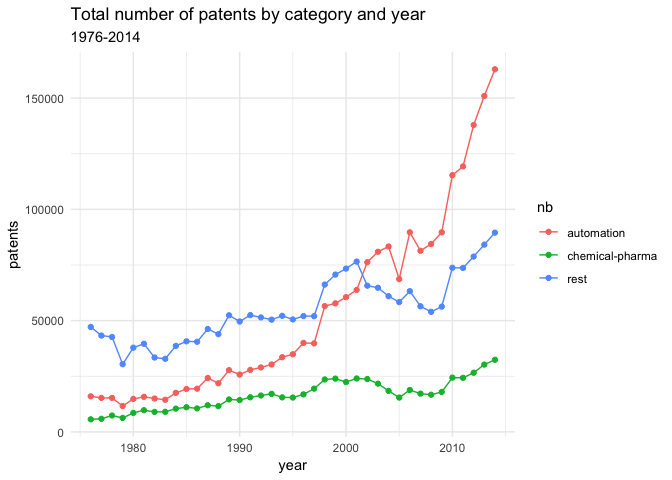
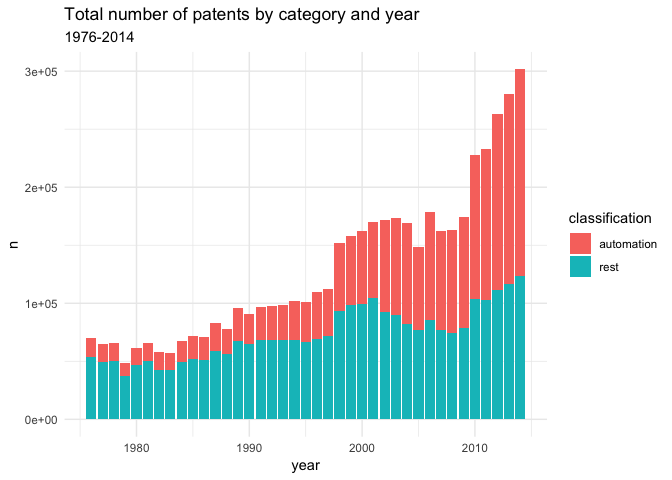
Use patent dataset (not industry dataset) to calculate patent totals

diff --git a/explore.md b/explore.md
@@ -13,14 +13,14 @@ Load some packages:
 library(tidyverse)
 ```
 
-    ## ── Attaching packages ───────────────
+    ## ── Attaching packages ──────────────────────────── tidyverse 1.2.1 ──
 
     ## ✔ ggplot2 3.1.1     ✔ purrr   0.3.2
-    ## ✔ tibble  2.1.1     ✔ dplyr   0.8.1
+    ## ✔ tibble  2.1.1     ✔ dplyr   0.8.3
     ## ✔ tidyr   0.8.3     ✔ stringr 1.4.0
     ## ✔ readr   1.3.1     ✔ forcats 0.4.0
 
-    ## ── Conflicts ────────────────────────
+    ## ── Conflicts ─────────────────────────────── tidyverse_conflicts() ──
     ## ✖ dplyr::filter() masks stats::filter()
     ## ✖ dplyr::lag()    masks stats::lag()
 
@@ -255,19 +255,19 @@ Aggregate statistics
 Let's also look at some aggregate statistics of patents over time.
 
 ``` r
-aggr_patents <- ind %>% 
-  filter(affil == "sector of use",
-         weight == "none") %>% 
-  group_by(year, nb) %>% 
-  summarise(patents = sum(patents))
+aggr_patents <- patents %>% 
+  group_by(year, automat) %>% 
+  tally() %>% 
+  mutate(classification = case_when(
+    automat == 1 ~ "automation",
+    automat == 0 ~ "rest"))
 ```
 
 Plot the number of patents by year by category.
 
 ``` r
-ggplot(aggr_patents, aes(year, patents, color = nb)) +
-  geom_line() + 
-  geom_point() +
+ggplot(aggr_patents, aes(year, n, fill = classification)) +
+  geom_col() + 
   theme_minimal() +
   labs(title = "Total number of patents by category and year",
        subtitle = "1976-2014")
@@ -279,11 +279,31 @@ Calculate how the share of automation patents has changed over time:
 
 ``` r
 aggr_stats <- aggr_patents %>% 
-  spread(nb, patents) %>% 
-  mutate(share_autom = automation / (automation + `chemical-pharma` + rest))
+  select(-automat) %>% 
+  spread(classification, n) %>% 
+  mutate(total = automation + rest,
+         share_autom = automation / total)
 
 write_csv(aggr_stats, "out_data/aggr_stats.csv")
+
+aggr_stats
 ```
+
+    ## # A tibble: 39 x 5
+    ## # Groups:   year [39]
+    ##     year automation  rest total share_autom
+    ##    <dbl>      <int> <int> <int>       <dbl>
+    ##  1  1976      16279 53915 70194       0.232
+    ##  2  1977      15433 49782 65215       0.237
+    ##  3  1978      15412 50675 66087       0.233
+    ##  4  1979      11721 37119 48840       0.240
+    ##  5  1980      14937 46878 61815       0.242
+    ##  6  1981      15885 49885 65770       0.242
+    ##  7  1982      15092 42785 57877       0.261
+    ##  8  1983      14546 42317 56863       0.256
+    ##  9  1984      17665 49547 67212       0.263
+    ## 10  1985      19415 52253 71668       0.271
+    ## # … with 29 more rows
 
 ``` r
 ggplot(aggr_stats, aes(year, share_autom)) +
